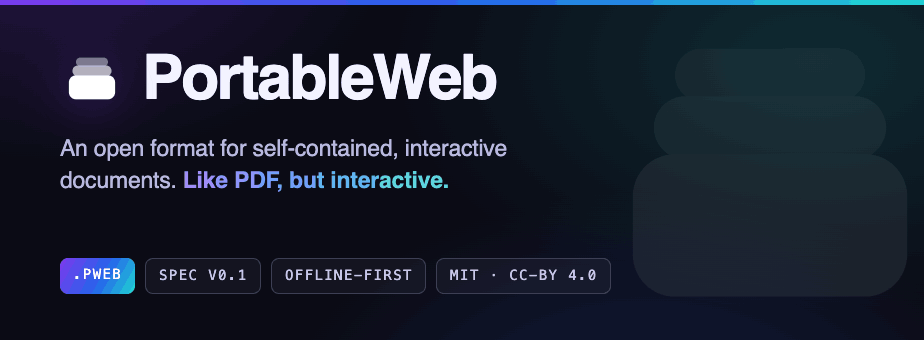
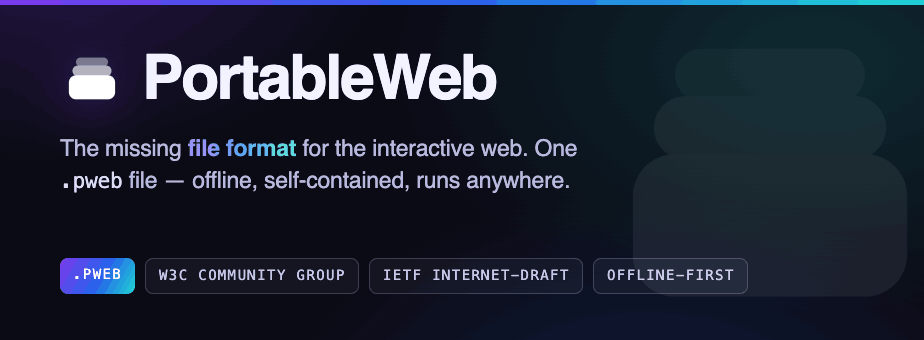
Add files via upload

diff --git a/profile/banner.html b/profile/banner.html
@@ -1,0 +1,99 @@
+<!DOCTYPE html>
+<html lang="en">
+<head>
+<meta charset="utf-8">
+<meta name="viewport" content="width=device-width, initial-scale=1">
+<title>PortableWeb — Org Banner</title>
+<link rel="preconnect" href="https://fonts.googleapis.com">
+<link rel="preconnect" href="https://fonts.gstatic.com" crossorigin>
+<link href="https://fonts.googleapis.com/css2?family=Geist:wght@400;500;600;700&family=Geist+Mono:wght@400;500;600&display=swap" rel="stylesheet">
+<style>
+  * { box-sizing: border-box; margin: 0; padding: 0; }
+  html, body { background: #ff00ff; }
+  .banner {
+    width: 924px;
+    height: 340px;
+    background:
+      radial-gradient(700px 420px at 88% 18%, rgba(32,214,210,0.16), transparent 60%),
+      radial-gradient(620px 420px at 70% 130%, rgba(37,99,235,0.20), transparent 60%),
+      radial-gradient(560px 380px at 6% -20%, rgba(124,58,237,0.24), transparent 60%),
+      #0b0b15;
+    position: relative;
+    overflow: hidden;
+    font-family: "Geist", sans-serif;
+    display: flex;
+    flex-direction: column;
+    justify-content: center;
+    padding: 0 60px;
+  }
+  .topbar { position: absolute; top: 0; left: 0; right: 0; height: 5px; background: linear-gradient(90deg, #7c3aed 0%, #2563eb 50%, #20d6d2 100%); }
+
+  /* faint stacked-sheet watermark on the right */
+  .watermark { position: absolute; right: -36px; top: 50%; transform: translateY(-50%); opacity: 0.06; }
+
+  .brand { display: flex; align-items: center; gap: 18px; }
+  .brand .glyph { width: 64px; height: 64px; filter: drop-shadow(0 6px 24px rgba(124,58,237,0.4)); }
+  .wordmark { font-size: 62px; font-weight: 700; letter-spacing: -0.035em; color: #f3f3ff; line-height: 1; }
+
+  .tagline {
+    margin-top: 22px;
+    font-size: 23px;
+    line-height: 1.4;
+    font-weight: 400;
+    color: #b9b9e0;
+    max-width: 34ch;
+    letter-spacing: -0.01em;
+  }
+  .tagline .accent {
+    background: linear-gradient(90deg, #a78bfa 0%, #60a5fa 50%, #5eead4 100%);
+    -webkit-background-clip: text; background-clip: text; -webkit-text-fill-color: transparent;
+    font-weight: 600;
+  }
+  .tagline .mono { font-family: "Geist Mono", monospace; font-size: 0.92em; color: #dcdcf5; }
+
+  .chips { margin-top: 30px; display: flex; gap: 10px; }
+  .chip {
+    font-family: "Geist Mono", monospace;
+    font-size: 14px;
+    white-space: nowrap;
+    letter-spacing: 0.1em;
+    text-transform: uppercase;
+    color: #c9c9ec;
+    border: 1px solid rgba(168,168,210,0.28);
+    border-radius: 8px;
+    padding: 8px 13px;
+    background: rgba(168,168,210,0.06);
+  }
+  .chip.grad { border: none; color: #fff; background: linear-gradient(120deg, #7c3aed, #2563eb 55%, #20d6d2); }
+</style>
+</head>
+<body>
+  <div class="banner">
+    <div class="topbar"></div>
+
+    <svg class="watermark" width="380" height="380" viewBox="0 0 36 36" aria-hidden="true">
+      <rect x="9" y="6.5" width="18" height="5" rx="2.5" fill="#ffffff" opacity="0.5"></rect>
+      <rect x="7" y="11" width="22" height="6" rx="3" fill="#ffffff" opacity="0.75"></rect>
+      <rect x="5" y="16.5" width="26" height="13.5" rx="4" fill="#ffffff"></rect>
+    </svg>
+
+    <div class="brand">
+      <svg class="glyph" viewBox="0 0 36 36" aria-hidden="true">
+        <rect x="9" y="6.5" width="18" height="5" rx="2.5" fill="#ffffff" opacity="0.42"></rect>
+        <rect x="7" y="11" width="22" height="6" rx="3" fill="#ffffff" opacity="0.66"></rect>
+        <rect x="5" y="16.5" width="26" height="13.5" rx="4" fill="#ffffff"></rect>
+      </svg>
+      <span class="wordmark">PortableWeb</span>
+    </div>
+
+    <p class="tagline">The missing <span class="accent">file format</span> for the interactive web. One <span class="mono">.pweb</span> file &mdash; offline, self-contained, runs anywhere.</p>
+
+    <div class="chips">
+      <span class="chip grad">.pweb</span>
+      <span class="chip">W3C Community Group</span>
+      <span class="chip">IETF Internet-Draft</span>
+      <span class="chip">Offline-first</span>
+    </div>
+  </div>
+</body>
+</html>

diff --git a/profile/README.md b/profile/README.md
@@ -1,32 +1,56 @@
 <!--
   PortableWeb — GitHub organization profile.
-  This file is rendered at https://github.com/portableweb
-  It lives in the special repo:  portableweb/.github  →  profile/README.md
-  The banner is profile/banner.png (regenerate from profile/banner.html).
+  Rendered at https://github.com/portableweb  (repo: portableweb/.github → profile/README.md)
+  Hero is the animated profile/flow.svg; static brand banner is profile/banner.png.
 -->
 
 <div align="center">
 
-<img src="https://raw.githubusercontent.com/portableweb/.github/main/profile/banner.png" alt="PortableWeb — an open format for self-contained, interactive documents" width="100%" />
+<img src="https://raw.githubusercontent.com/portableweb/.github/main/profile/flow.svg" alt="The PortableWeb loop: you ask an AI to build interactive web content, it is generated, you pack it as a single .pweb file, and it runs everywhere — phone, Mac, PC, or shared with a friend." width="100%" />
 
 <br /><br />
 
-[![Website](https://img.shields.io/badge/portableweb-0b0b15?style=flat-square&labelColor=0b0b15&color=7c3aed)](https://portableweb.github.io)
-[![Open the app](https://img.shields.io/badge/open%20the%20app-%E2%86%97-2563eb?style=flat-square)](https://portableweb.github.io/app/)
-[![Spec](https://img.shields.io/badge/spec-v0.1%20draft-20d6d2?style=flat-square)](https://www.ietf.org/archive/id/draft-selvaraj-portableweb-format-00.html)
+# PortableWeb
+
+**The missing file format for the interactive web.** One `.pweb` file that runs on any device, fully offline — no server, no web origin, no app store.
+
+*PortableWeb is not an AI platform. It’s the open format for what you — and any AI tool — build with web technology.*
+
+[![Website](https://img.shields.io/badge/portableweb.org-0b0b15?style=flat-square&labelColor=0b0b15&color=7c3aed)](https://portableweb.org)
+[![Open the app](https://img.shields.io/badge/open%20the%20app-%E2%86%97-2563eb?style=flat-square)](https://portableweb.org/app/)
+[![W3C Community Group](https://img.shields.io/badge/W3C-Community%20Group-005a9c?style=flat-square)](https://www.w3.org/community/portableweb/)
+[![IETF Internet-Draft](https://img.shields.io/badge/IETF-Internet--Draft-20d6d2?style=flat-square&labelColor=333)](https://datatracker.ietf.org/doc/draft-selvaraj-portableweb-format/)
+[![Spec](https://img.shields.io/badge/spec-v0.1%20draft-9f67f5?style=flat-square)](https://github.com/portableweb/spec)
 [![License](https://img.shields.io/badge/code-MIT-444?style=flat-square)](https://opensource.org/licenses/MIT)
-[![Spec license](https://img.shields.io/badge/spec-CC--BY%204.0-444?style=flat-square)](https://creativecommons.org/licenses/by/4.0/)
 
 </div>
 
 ---
 
-## Interactive documents, built to last
+## Interactive content is built in minutes now. Where does it live?
 
-**PortableWeb** is an open file format for self-contained, sandboxed, interactive documents.
-Think of a `.pweb` bundle as **a single file that opens like a document and behaves like a small, sandboxed web app** — like PDF, but interactive; like a webpage, but a file you own.
+AI-assisted tools have changed the economics of building interactive web content: a simulation, a small game, a 3D experience, or a data-rich report that used to take days of skilled work now takes minutes — and it’s being made **by the million**, with whichever tools people already use. None of it has a natural place to live.
 
-It works offline. It doesn't expire when a CDN goes dark. It doesn't need a server, an account, or a subscription. Each spec version freezes a stable subset of the web platform, so a bundle built today renders correctly in any compatible viewer — the archival promise PDF/A makes for static documents, applied to interactive ones.
+Every existing option forces an unacceptable tradeoff:
+
+| Option | The catch |
+|---|---|
+| **Deploy to a server** | Needs hosting and a live connection. Wrong tool for ephemeral or personal content — and it vanishes when the host goes dark. |
+| **Publish to an app store** | Developer accounts, review cycles, maintenance. Absurd for the volume of artifacts being made today. |
+| **PDF** | Portable and archival, but it flattens everything. A game loop or live simulation can't survive the trip. |
+| **EPUB** | Its scripting enhances a *reading* experience; it can't represent a game or a real-time simulation. |
+| **Web Bundles** | A network transport optimization, never broadly implemented. No offline-first execution model. |
+| **Web App Manifest** | Describes an already-deployed app. Tied to a web origin — it says nothing about content with no server at all. |
+
+> **No existing format treats interactive web content as a portable, self-contained, immediately runnable unit.**
+
+## PortableWeb is that unit.
+
+A PortableWeb bundle (`.pweb`) packages the HTML, CSS, JavaScript, and media of an interactive experience into **one file**. A compatible viewer opens it in its own sandboxed window — on desktop, mobile, or anywhere — entirely offline, with no deployment, no web origin, and no browser required.
+
+It behaves like a document: save it, copy it, email it, archive it, or AirDrop it across the room. It works the first time and the thousandth, and it doesn't expire when a CDN goes dark. The format is **content-model agnostic** — a bundle can hold a game, a presentation, a simulation, a 3D experience, a scientific model, a report, or a book.
+
+**And the loop closes.** Today you ask a model to build something, then pack the result as a `.pweb`. As models mature, they'll emit the `.pweb` directly — the finished, portable file, instantly usable everywhere.
 
 ## What's inside a bundle
 
@@ -37,7 +61,7 @@ my-document.pweb
 ├── mimetype          # required · first entry, uncompressed (application/vnd.portableweb+zip)
 ├── manifest.json     # required · id, version, title, entry point, declared permissions
 ├── index.html        # required · the entry the viewer loads first
-├── assets/           # images, fonts, media
+├── assets/  media/   # images, fonts, audio, video
 └── scripts/ styles/  # JS modules and stylesheets
 ```
 
@@ -46,13 +70,20 @@ my-document.pweb
 | | |
 |---|---|
 | **Self-contained** | A bundle carries everything it needs. No CDN dependency, no broken script tags in five years. |
-| **Sandboxed** | No filesystem access, network off by default, storage scoped per bundle. Permissions declared in the manifest, enforced by the viewer. |
+| **Sandboxed** | No filesystem access, network off by default, storage scoped per bundle. Permissions declared in the manifest, enforced by the viewer, deny-by-default. |
 | **Archival** | Each spec version freezes a stable feature subset. A v1.0 bundle renders identically in any v1.0 viewer, indefinitely. |
 | **Owned** | A bundle is a file. No host, no account, no platform. It belongs to whoever holds it. |
 
+## Standards — built in the open
+
+PortableWeb isn't a private format. It's being developed where the web is built:
+
+- 🌐 **[W3C Community Group](https://www.w3.org/community/portableweb/)** — the *Portable Web Content Format* CG. Container, manifest, viewer conformance, per-bundle storage, and a genuinely new permission-gated **offline peer-to-peer channel** (Bluetooth / Wi-Fi Direct) for multiplayer and collaboration without any server. Anyone may join; W3C membership not required.
+- 📜 **[IETF Internet-Draft](https://datatracker.ietf.org/doc/draft-selvaraj-portableweb-format/)** — `draft-selvaraj-portableweb-format` defines the container, manifest schema, security considerations, and the `application/vnd.portableweb+zip` media type.
+
 ## Try it now
 
-The **[PortableWeb web app](https://portableweb.github.io/app/)** runs entirely in your browser — open and render any `.pweb`, pack a project folder into a bundle, validate one against the spec, or scaffold a new project. No install, no account, nothing leaves your device.
+The **[PortableWeb web app](https://portableweb.org/app/)** runs entirely in your browser — open and render any `.pweb`, pack a project folder into a bundle, validate one against the spec, or scaffold a new project. No install, no account, nothing leaves your device.
 
 ```bash
 # Prefer a terminal? The CLI packs and validates bundles too.
@@ -65,16 +96,15 @@ pweb validate my-document.pweb
 
 | Repository | What it is |
 |---|---|
-| [**Formal Specification Submission**](https://www.ietf.org/archive/id/draft-selvaraj-portableweb-format-00.html) | Formal specification submission: `draft-selvaraj-portableweb-format-00` |
-| [**.github**](https://github.com/portableweb/.github) | This profile, plus the [portableweb.github.io](https://portableweb.github.io) website |
+| [**spec**](https://github.com/portableweb/spec) | The format specification, schema, and example bundles |
+| [**.github**](https://github.com/portableweb/.github) | This profile, plus the [portableweb.org](https://portableweb.org) website |
 | [**Discussions**](https://github.com/portableweb/portableweb/discussions) | Ideas, questions, and design conversations |
-
-> The CLI and viewer repos welcome PRs too — check the [open issues across the org](https://github.com/portableweb) for good starting points.
 
 ## Get involved
 
 PortableWeb is a small project with large ambitions. The format is still in **draft**, which means early feedback shapes it most.
 
+- 🌐 **Join the [W3C Community Group](https://www.w3.org/community/portableweb/join)** — help shape the spec where it's being standardized.
 - 📖 **Read & comment on the spec** — open issues or PRs on [`portableweb/spec`](https://github.com/portableweb/spec).
 - 🧪 **Build something** — make a `.pweb` and share it. Real-world usage drives the spec far more than theory.
 - 🛠 **Contribute code** — the CLI, viewer, and website all welcome PRs.
@@ -82,11 +112,5 @@ PortableWeb is a small project with large ambitions. The format is still in **dr
 
 <div align="center">
 <br />
-<sub>Spec licensed <a href="https://creativecommons.org/licenses/by/4.0/">CC-BY 4.0</a> · Code licensed <a href="https://opensource.org/licenses/MIT">MIT</a> · <a href="https://portableweb.github.io">portableweb.github.io</a></sub>
-</div>
-
----
-
-<div align="center">
-<sub>This project is open for community contribution. All materials are contributed under the Creative Commons Attribution 4.0 license (CC-BY-4.0). This work is being submitted as input to the W3C Portable Web Content Format (PortableWeb) Community Group.</sub>
+<sub>Spec licensed <a href="https://creativecommons.org/licenses/by/4.0/">CC-BY 4.0</a> · Code licensed <a href="https://opensource.org/licenses/MIT">MIT</a> · <a href="https://portableweb.org">portableweb.org</a></sub>
 </div>
